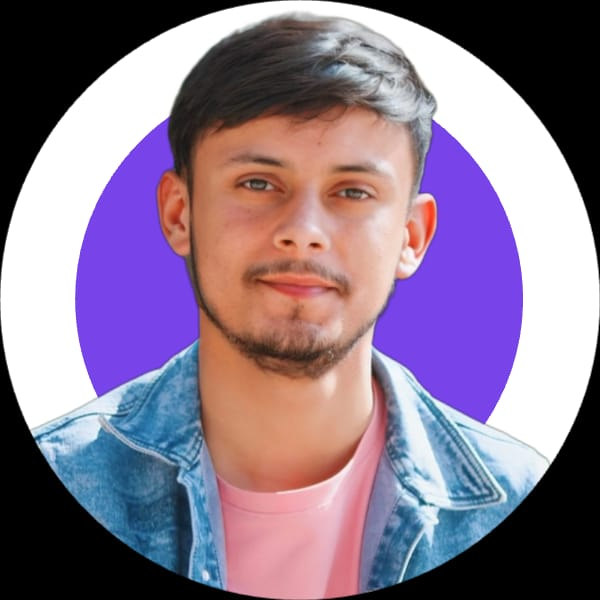
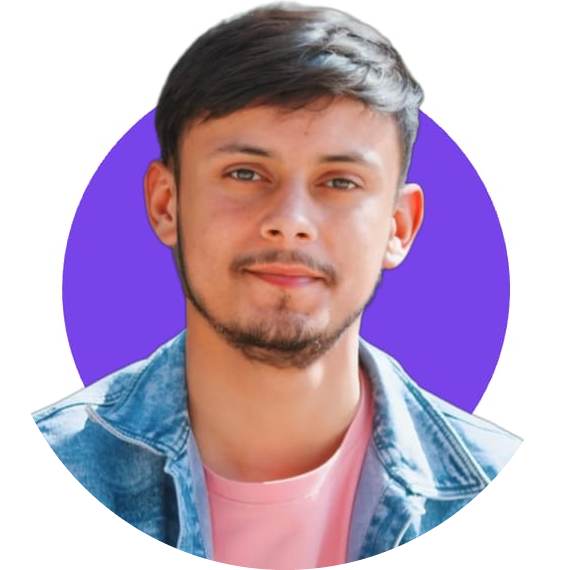
Try new color theme

diff --git a/style.css b/style.css
@@ -70,11 +70,11 @@ nav li{
 
 .logo:hover,
 nav a:hover{
-    color: #008080;
+    color: #7843E9;
 }
 
 .active{
-    color: #008080;
+    color: #7843E9;
 }
 
 #change-text1,
@@ -137,7 +137,7 @@ nav a:hover{
 /*  Hamburgur Menu Ends */
 
 .teal{
-    color: #008080;
+    color: #7843E9;
     font-weight: 600;
     font-style: italic;   
 }
@@ -162,6 +162,9 @@ nav a:hover{
 
 .intro-image img{
     height: 300px;
+    border: 2px solid;
+    border-radius: 50%;
+    box-shadow: -1px 1px 6px 0px #7843E9;
 }
 
 /* Social Media Section */
@@ -195,7 +198,7 @@ nav a:hover{
 }
 
 .fa-brands:hover{
-    color: #008080;
+    color: #7843E9;
 }
 
 
@@ -255,7 +258,7 @@ nav a:hover{
     font-size: 1.5rem;
     text-decoration: none;
     color: #ffffff;
-    background-color: #008080;
+    background-color: #7843E9;
     border-radius: 7px;
     padding: 5px;
 }

diff --git a/index.html b/index.html
@@ -48,7 +48,6 @@
     </header>
 
 
-
     <main>
         <section id="intro">
             <div class="intro-text">
@@ -59,6 +58,7 @@
             <div class="intro-image">
                 <img src="./images/gaurav.jpeg" alt="About">
             </div>
+
         </section>
 
         <section id="social">
